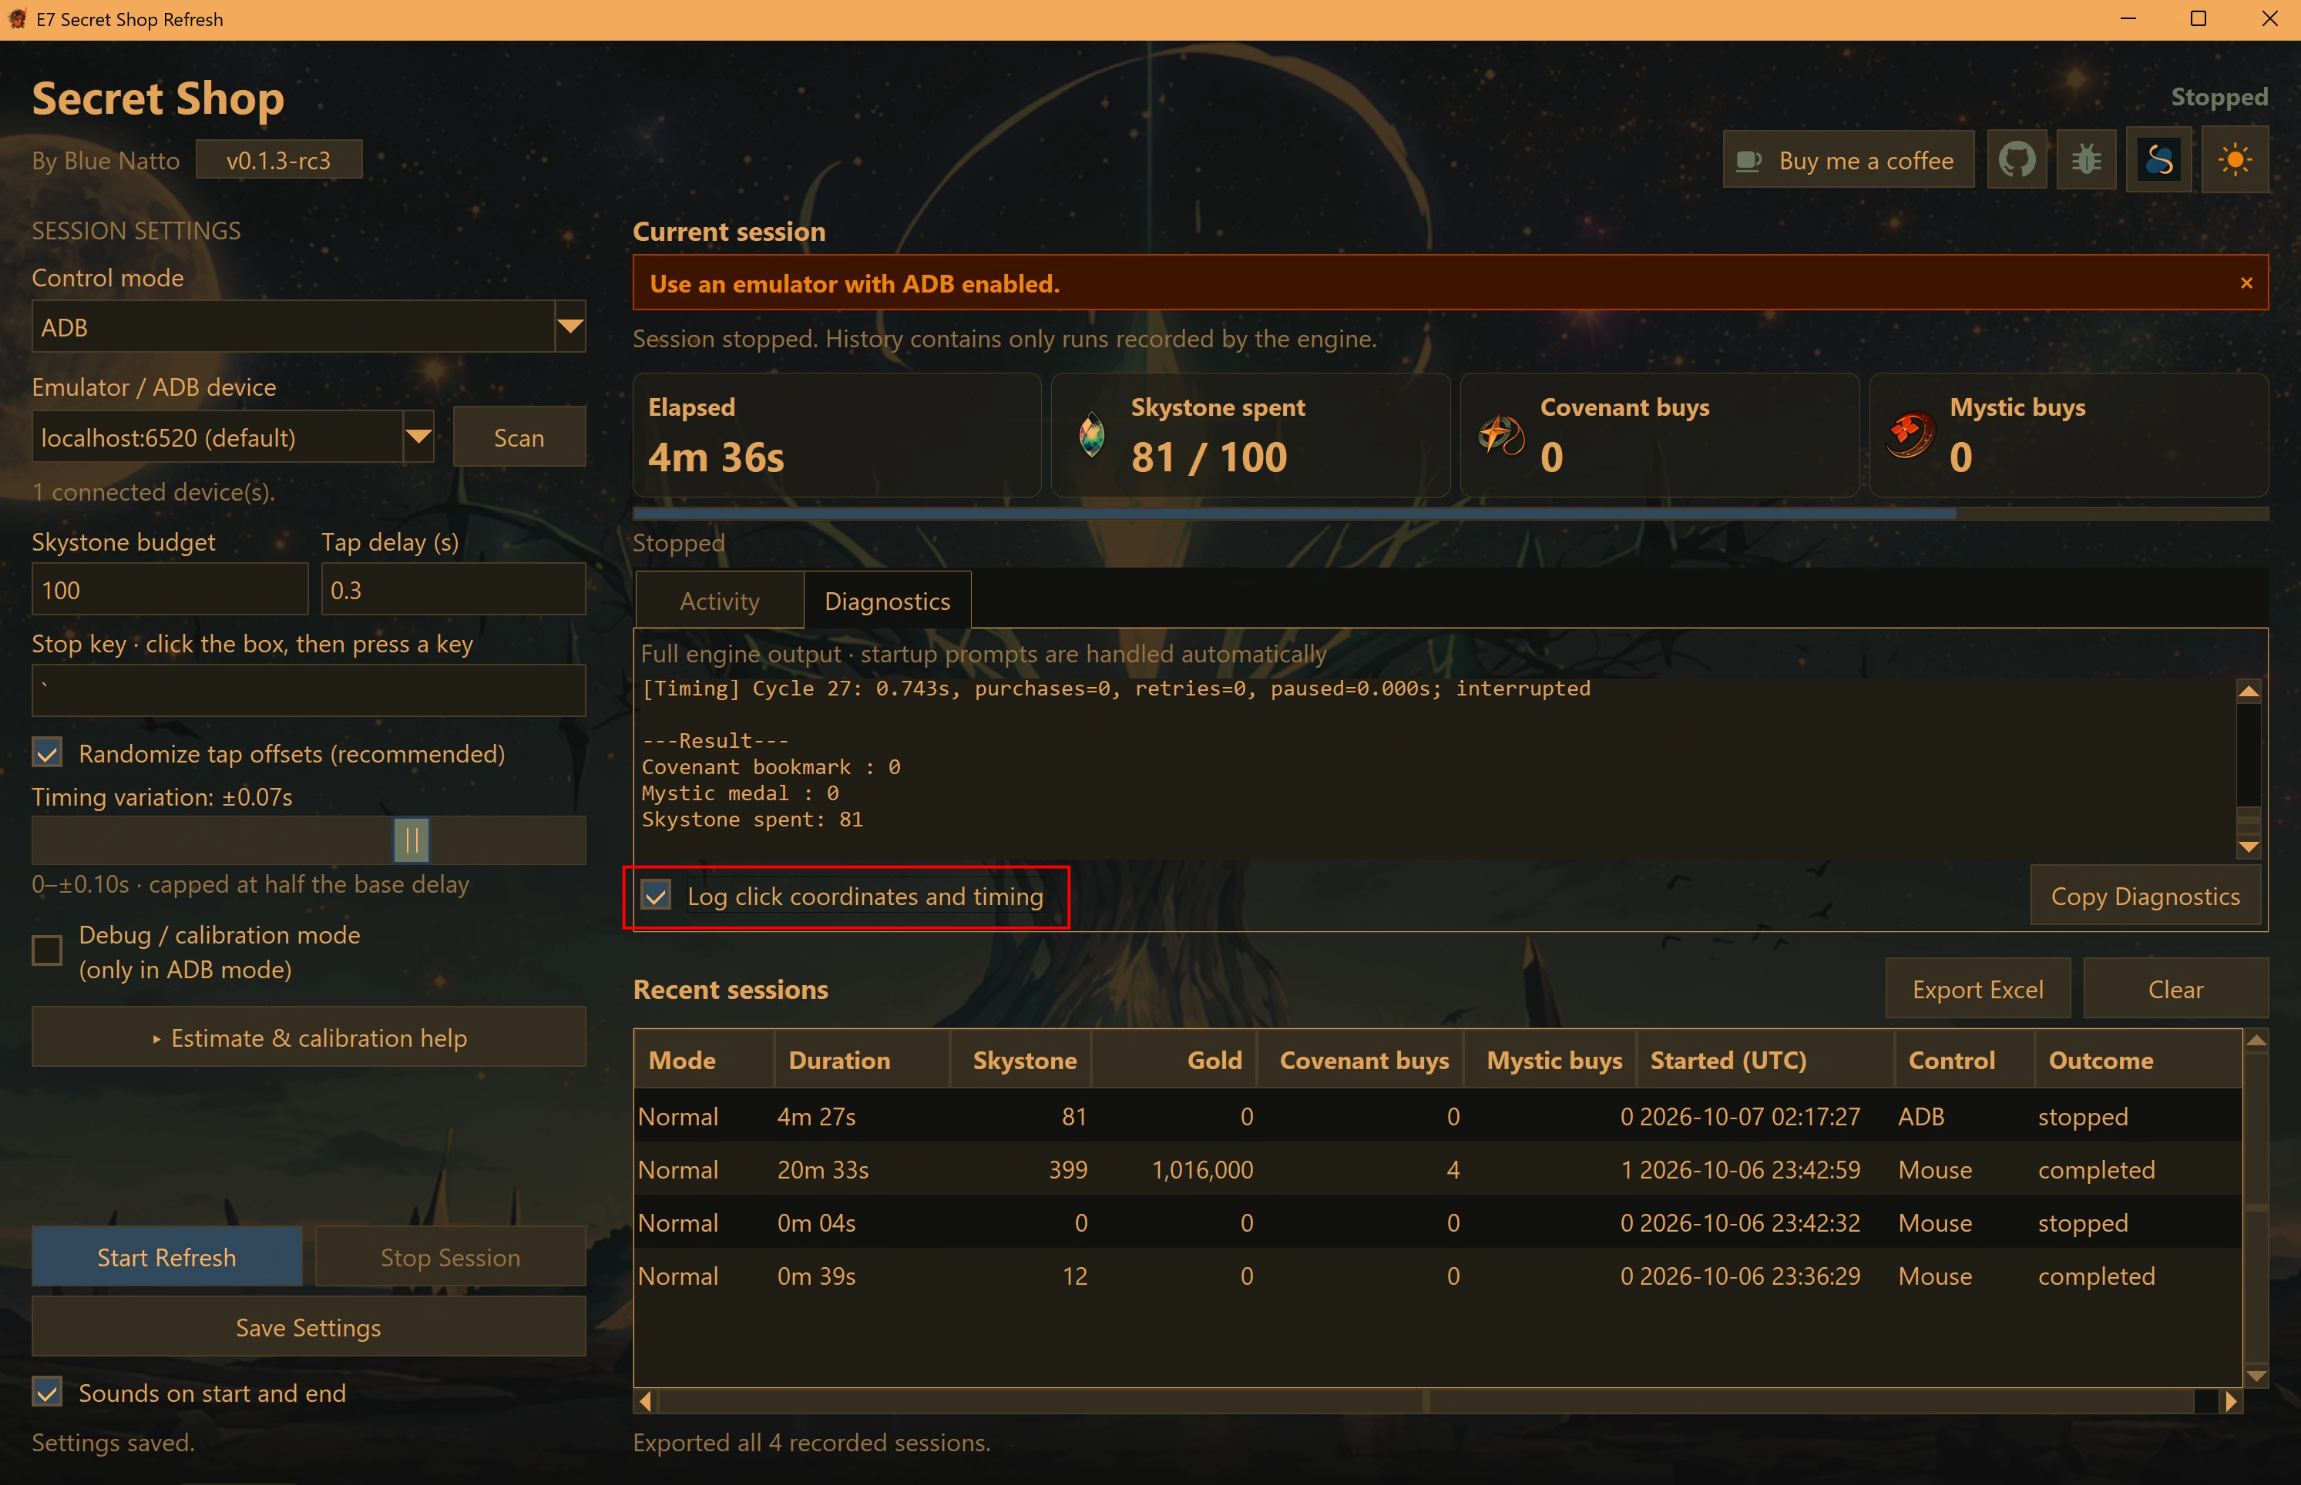
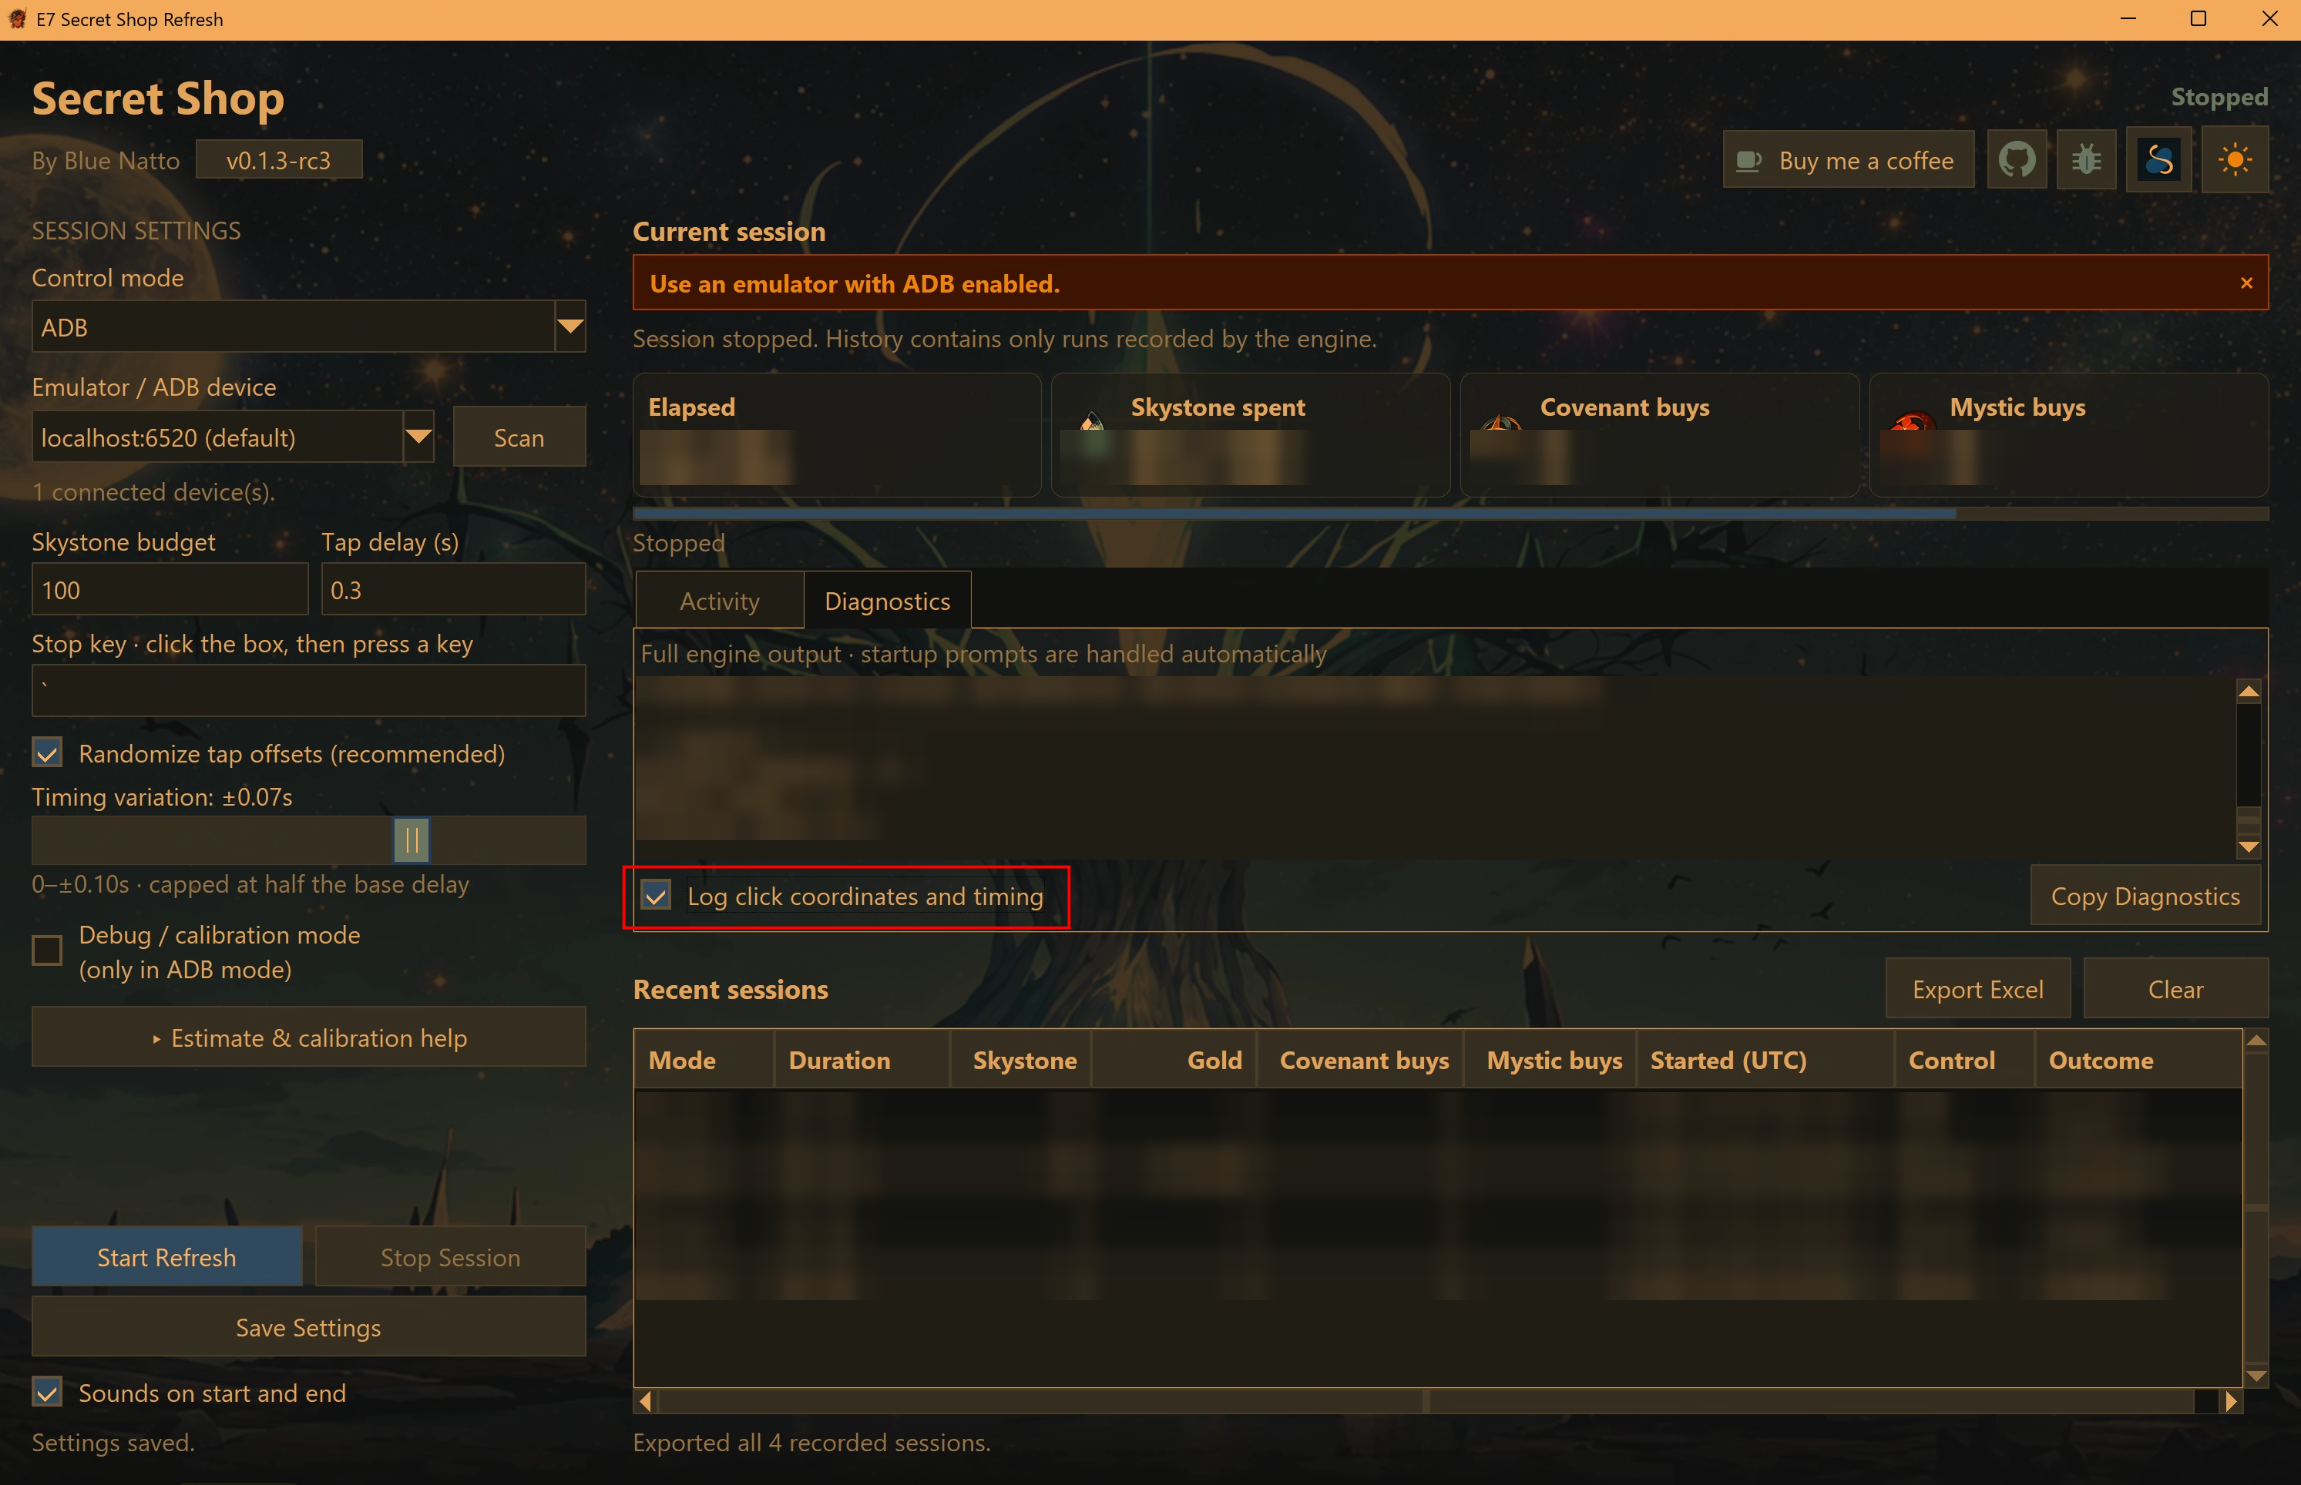
Remove run times and purchase totals from docs and screenshots
Blur the stat tiles, activity text and session history in the two README
screenshots, and keep live-run times, Skystone/gold totals and purchase
counts out of the soak notes and release docs. Those stay in local logs.

diff --git a/docs/SOAK-0.2.4.md b/docs/SOAK-0.2.4.md
@@ -5,13 +5,16 @@ Background run with a 300-Skystone budget (100 refreshes), mouse parked off the
 game. A run passes when it reaches the budget with no stop, and every purchase
 in the Activity tab matches what the game shows.
 
+Purchase counts, Skystone and gold totals and start times of live runs are kept
+in the local session logs only, not here.
+
 | # | Platform | Client | Window | Result | Notes |
 |---|----------|--------|--------|--------|-------|
-| 1 | Linux Mint | Steam | windowed (as used on 2026-11-14) | Pass (short) | 2026-11-14: 20 refreshes / 60 Skystones (low on Skystones), stopped by hand; no stop, one expected "item moved before Buy" recheck; 15 Friendship bought |
-| 2 | Windows 11 | Steam | fullscreen | Pass (short) | 0.2.4h, 19:49: 16 refreshes / 48 Skystones, no stop; 1 Mystic, 10 Friendship |
-| 3 | Windows 11 | Steam | windowed | Pass (short) | 0.2.4h, 19:53 (1778×1000): 16 refreshes / 48 Skystones, no stop; one "list did not scroll" redrag and two pointer pauses recovered; 2 Covenant, 8 Friendship. A 19:50 start stopped because the pointer stayed on the game over 10 s (setup) |
-| 4 | Windows 11 | STOVE | fullscreen | Pass (short) | 0.2.4h, 19:58: 16 refreshes / 48 Skystones, no stop; 1 Covenant, 11 Friendship |
-| 5 | Windows 11 | STOVE | windowed | Pass (short) | 0.2.4h, 20:05 (1119×629): stopped at 0 refreshes, "Secret Shop screen could not be verified" (title 0.199) after a pointer pause during the page-two scroll settle; one-frame check, fixed in e6c179d (re-read). 20:08 rerun: 16 refreshes / 48 Skystones, no stop; 11 Friendship. 0.2.4i (504a995) 20:30 rerun: 16 refreshes / 48 Skystones, no stop, four pointer pauses recovered; 8 Friendship. The re-read path was not triggered in that run. A 20:27 start stopped at once with the game minimized (0×0, "window was resized"), as designed |
+| 1 | Linux Mint | Steam | windowed | Pass (short) | Low on Skystones, stopped by hand; no stop, one expected "item moved before Buy" recheck; Friendship bought |
+| 2 | Windows 11 | Steam | fullscreen | Pass (short) | 0.2.4h: no stop; Mystic and Friendship bought |
+| 3 | Windows 11 | Steam | windowed | Pass (short) | 0.2.4h (1778×1000): no stop; one "list did not scroll" redrag and two pointer pauses recovered; Covenant and Friendship bought. An earlier start stopped because the pointer stayed on the game over 10 s (setup) |
+| 4 | Windows 11 | STOVE | fullscreen | Pass (short) | 0.2.4h: no stop; Covenant and Friendship bought |
+| 5 | Windows 11 | STOVE | windowed | Pass (short) | 0.2.4h (1119×629): first start stopped at 0 refreshes, "Secret Shop screen could not be verified" (title 0.199) after a pointer pause during the page-two scroll settle; one-frame check, fixed in e6c179d (re-read). Rerun: no stop; Friendship bought. 0.2.4i (504a995) rerun: no stop, four pointer pauses recovered. The re-read path was not triggered in that run. A start with the game minimized stopped at once (0×0, "window was resized"), as designed |
 
 On any stop: press Copy report and paste it, and keep the session log. The
 app's own wait-and-look-again messages ("waiting for the list to settle and
@@ -20,37 +23,33 @@ checking again") are expected and not failures.
 Optional after all five pass: one Mouse-mode run on STOVE (nothing may cover
 the game), and one run with an item bought by hand before starting.
 
-Optional runs, 2026-11-14 (Orlando, STOVE windowed 1119×629, build 0.2.4i / 504a995):
+Optional runs (STOVE windowed 1119×629, build 0.2.4i / 504a995):
 
 - Mouse mode: bought Mystic and Friendship, then stopped at the Covenant Buy
   dialog with "The confirmation kept changing while being read" (no click).
 - Background mode: same stop on the same Covenant dialog.
 - Cause: the dialog differed between every two captures 70 ms apart for the
   whole 5 s, although its button never moved. Fixed in be36ea7 (a button
-  held in place for 1 s counts as settled; text still checked). Rerun both
-  with 0.2.4j (be36ea7) pending.
+  held in place for 1 s counts as settled; text still checked).
 
-Low-budget runs, 2026-11-14/15 (Orlando, build 0.2.4l / 27791e7, which has
-the be36ea7 confirm hold, the f9d4eaf verified-scroll check and the 27791e7
-numeric price compare). All eight reached their Skystone budget with no stop
-and no Stop key:
+Low-budget runs (build 0.2.4l / 27791e7, which has the be36ea7 confirm hold,
+the f9d4eaf verified-scroll check and the 27791e7 numeric price compare).
+All eight reached their Skystone budget with no stop and no Stop key:
 
-- 23:50 Mouse: 13 refreshes / 39 Skystones; 1 Covenant.
-- 23:53 Background, 1778×1000 windowed: 13 / 39; 2 Covenant; one "list did
-  not scroll" redrag recovered.
-- 00:24, 00:28, 00:32, 00:40, 00:45 Background, STOVE 1119×629 windowed:
-  13 / 39, 33 / 99, 33 / 99, 33 / 99 and 32 / 96; 0, 1, 1, 1 and 2 Covenant;
-  one redrag recovered in each of the three 33-refresh runs.
-- 00:59 Background, 1122×631 windowed: 16 / 48; 3 Covenant.
+- One Mouse run; Covenant bought.
+- One Background run, 1778×1000 windowed; Covenant bought; one "list did not
+  scroll" redrag recovered.
+- Five Background runs, STOVE 1119×629 windowed; Covenant bought in four;
+  one redrag recovered in each of the three longest runs.
+- One Background run, 1122×631 windowed; Covenant bought.
 
 This covers the optional Mouse rerun and confirms the Covenant Buy dialog
-now reaches Confirm on STOVE windowed (9 Covenant across the Background runs,
-11 in all). 
-Full run, 2026-11-15 01:08 (Orlando, 0.2.4l, Background, maximized 1920×1009,
-the size that earlier stopped at the shop title check): 100 refreshes /
-300 Skystones in 8 min 40 s, budget reached, no stop, no Stop key, no
-recovery messages; 3 Covenant and 1 Mystic (832,000 gold, matching 3 × 184,000
-+ 280,000). Shop title verified on the first look. Whether any Covenant or
-Mystic was skipped could only be judged by watching the game; none was
-reported. The title match at this size is still marginal (0.873 against 0.90
-in the earlier stop), so maximized STOVE stays a known risk, not a fix.
+now reaches Confirm on STOVE windowed.
+
+Full run (0.2.4l, Background, maximized 1920×1009, the size that earlier
+stopped at the shop title check): full 300-Skystone budget reached, no stop,
+no Stop key, no recovery messages; Covenant and Mystic bought, gold spent
+matching the listed prices. Shop title verified on the first look. Whether any
+Covenant or Mystic was skipped could only be judged by watching the game; none
+was reported. The title match at this size is still marginal (0.873 against
+0.90 in the earlier stop), so maximized STOVE stays a known risk, not a fix.

diff --git a/release/NOTES-0.1.3.md b/release/NOTES-0.1.3.md
@@ -19,8 +19,8 @@ two seconds. Background repaint work is reduced, though 4K resizing and theme
 repaint can still lag; further rendering work is deferred.
 
 The owner reports passing live Mouse and ADB regression runs on the rc3 candidate.
-Saved Mouse evidence includes 133 refreshes (399 Skystones), four Covenant buys
-and one Mystic buy. Saved ADB evidence includes a cooperative Stop at 81 Skystones.
+Saved Mouse evidence includes a completed run with Covenant and Mystic buys.
+Saved ADB evidence includes a cooperative Stop.
 The final stable package has matching source with release metadata changes and
 separate offline verification; it has not had an additional live currency run.
 Testing remains limited to native STOVE Mouse and Google Play Games Developer

diff --git a/README.md b/README.md
@@ -55,10 +55,9 @@ window, or click **Stop Session**.
 
 ## What it looks like
 
-The main window after a real 500-Skystone run on Steam: 12 Covenant, 5 Mystic and
-116 Friendship buys in about 16 minutes.
+The main window after a finished Background run on Steam. Run history is blurred.
 
-<img src="docs/media/v0.2.1-full-window.png" alt="Main window after a finished Background run on Steam: 498 of 500 Skystones spent, 12 Covenant, 5 Mystic and 116 Friendship buys" width="800">
+<img src="docs/media/v0.2.1-full-window.png" alt="Main window after a finished Background run on Steam" width="800">
 
 While it runs, the app can shrink to a small always-on-top bar with purchases,
 Skystones spent, time left and a Stop button:

diff --git a/release/SETUP.md b/release/SETUP.md
@@ -134,8 +134,7 @@ moves and resizes still stop input. Restored Google windows with a thin light
 frame above the header are supported. Set the window size before pressing Start;
 you can begin directly in the open Secret Shop.
 The owner regression-tested Mouse and ADB with the rc3 candidate used for v0.1.3.
-The saved Mouse run completed 133 refreshes (399 Skystones), buying four Covenant
-items and one Mystic item. This does not establish reliability for every setup
+The saved Mouse run completed its budget, buying Covenant and Mystic items. This does not establish reliability for every setup
 or arbitrarily long runs.
 
 The app checks each confirmation before clicking it and stops on unexpected text

diff --git a/docs/INPUT-DIAGNOSTICS.md b/docs/INPUT-DIAGNOSTICS.md
@@ -77,7 +77,7 @@ live session with the matching packaged engine.
   final random-generator states with detailed logging enabled and disabled.
 - Automated checks used fake inputs. Separately, the owner reports passing live
   Mouse and ADB regressions with the matching rc3 package. Saved evidence includes
-  a completed 399-Skystone Mouse run and an ADB run stopped at 81 Skystones.
+  a completed Mouse run and an ADB run ended with Stop.
   Calibration and insufficient-currency stopping were not live-tested for this release.
 
 Evidence is in ignored `scratch/input-trace/`; packaged checks are recorded with
